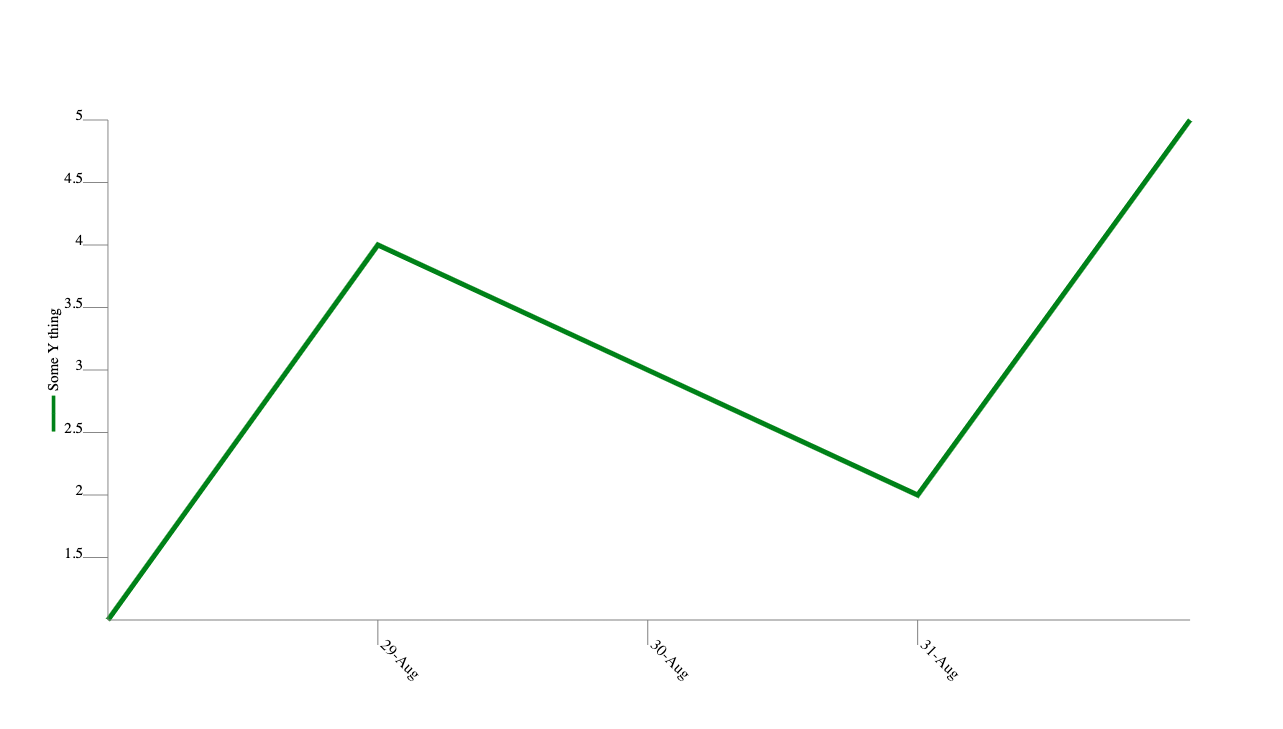
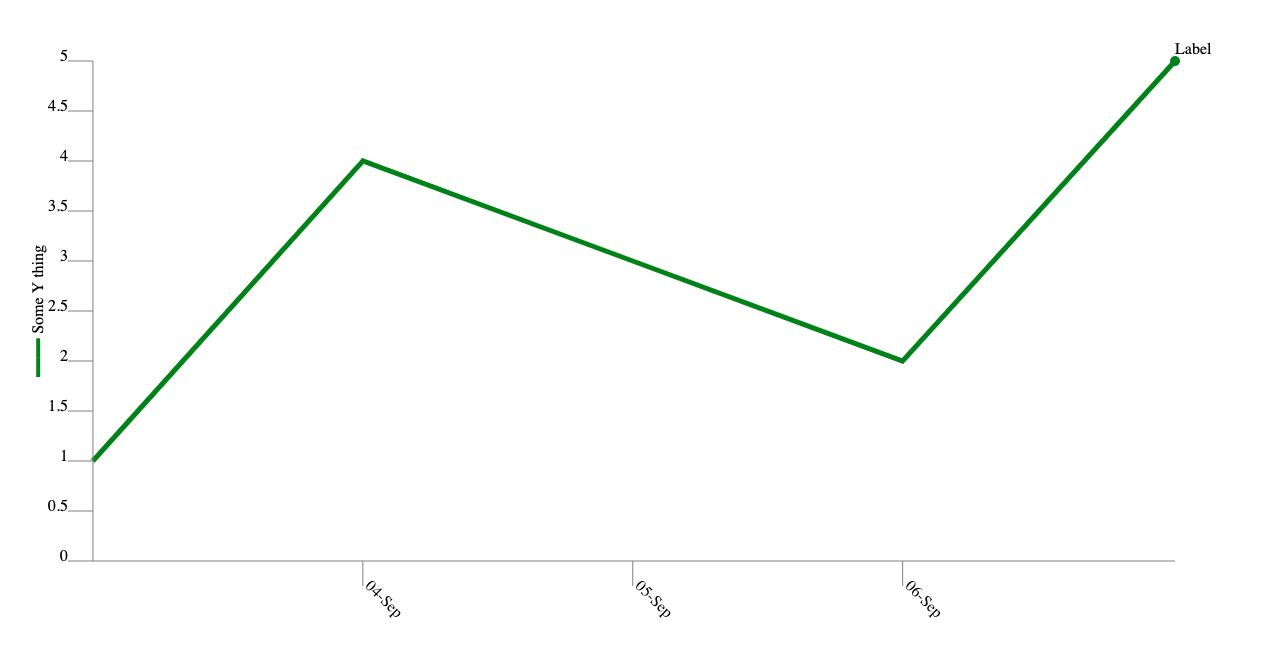
Flexible labelling
Labels can now be more than just text. For convenience, a label function is provided that generates a circle along with text that is passed into it. This reproduces the existing functionality. Going forward though, the user can provide a function to generate any Html for a data point.

diff --git a/examples/basic/index.scss b/examples/basic/index.scss
@@ -34,5 +34,10 @@
     .horizontal-series.some-series {
         stroke: green;
         stroke-width: 2px;
+
+        text {
+            stroke: none;
+            stroke-width: 1px;
+        }
     }
 }

diff --git a/src/horizontal_series.rs b/src/horizontal_series.rs
@@ -15,7 +15,25 @@ use yew::{
     web_sys::{Element, SvgElement},
 };
 
+pub type SeriesData = Vec<(f32, f32)>;
+pub type SeriesDataLabelled = Vec<(f32, f32, Box<SeriesDataLabeller>)>;
+pub type SeriesDataLabeller = dyn Fn(u32, u32) -> Html;
+
 const DATA_LABEL_OFFSET: u32 = 3;
+const CIRCLE_RADIUS: u32 = DATA_LABEL_OFFSET >> 1;
+
+// A convenience for using a string as a label along with a circle dot.
+pub fn label(text: &str) -> Box<SeriesDataLabeller> {
+    let t = text.to_string();
+    Box::new(move |x, y| {
+        html! {
+            <>
+            <circle cx=x.to_string() cy=y.to_string() r=CIRCLE_RADIUS.to_string() />
+            <text x=x.to_string() y=(y - DATA_LABEL_OFFSET).to_string()>{t.to_owned()}</text>
+            </>
+        }
+    })
+}
 
 pub enum Msg {
     Resize,
@@ -29,17 +47,17 @@ pub enum SeriesType {
 
 #[derive(Properties, Clone)]
 pub struct Props {
-    pub series_type: SeriesType,
-    pub name: String,
-    pub data: Rc<Vec<(f32, f32)>>,
-    pub data_labels: Option<Rc<Vec<(f32, f32, String)>>>,
+    pub data: Rc<SeriesData>,
+    pub data_labels: Option<Rc<SeriesDataLabelled>>,
+    pub height: u32,
     pub horizontal_scale: Range<f32>,
     pub horizontal_scale_step: f32,
+    pub name: String,
+    pub series_type: SeriesType,
     pub vertical_scale: Range<f32>,
+    pub width: u32,
     pub x: u32,
     pub y: u32,
-    pub height: u32,
-    pub width: u32,
 }
 
 impl PartialEq for Props {
@@ -85,74 +103,77 @@ impl HorizontalSeries {
         let mut svg_elements = Vec::<Html>::with_capacity(
             props.data.len() + props.data_labels.as_ref().map(|d| d.len()).unwrap_or(0),
         );
-        let mut element_points = Vec::<(u32, u32)>::with_capacity(props.data.len());
 
-        let mut top_y = props.height;
+        if props.data.len() > 0 {
+            let mut element_points = Vec::<(u32, u32)>::with_capacity(props.data.len());
 
-        let data_step = props.horizontal_scale_step;
-        let mut last_data_step = -data_step;
-        for (data_x, data_y) in props.data.iter() {
-            let step = (data_x / data_step) * data_step;
-            if step - last_data_step > data_step {
-                if props.series_type == SeriesType::Line {
-                    let points = element_points
-                        .iter()
-                        .map(|(x, y)| format!("{},{} ", x, y))
-                        .collect::<String>();
-                    svg_elements.push(
-                        html!(<polyline points={points} class={classes.to_owned()} fill="none"/>),
-                    );
-                } else {
-                    for point in element_points.iter() {
-                        let x1 = point.0;
-                        let y1 = point.1;
-                        let x2 = x1;
-                        let y2 = props.height + props.y;
-                        if y1 != y2 {
-                            svg_elements.push(
-                            html!(<line x1=x1.to_string() y1=y1.to_string() x2=x2.to_string() y2=y2.to_string() class=classes.to_owned()/>));
+            let mut top_y = props.height;
+
+            let data_step = props.horizontal_scale_step;
+            let mut last_data_step = -data_step;
+            for (data_x, data_y) in props.data.iter() {
+                let step = (data_x / data_step) * data_step;
+                if step - last_data_step > data_step {
+                    if props.series_type == SeriesType::Line {
+                        let points = element_points
+                            .iter()
+                            .map(|(x, y)| format!("{},{} ", x, y))
+                            .collect::<String>();
+                        svg_elements.push(
+                            html!(<polyline points={points} class={classes.to_owned()} fill="none"/>),
+                        );
+                    } else {
+                        for point in element_points.iter() {
+                            let x1 = point.0;
+                            let y1 = point.1;
+                            let x2 = x1;
+                            let y2 = props.height + props.y;
+                            if y1 != y2 {
+                                svg_elements.push(
+                                html!(<line x1=x1.to_string() y1=y1.to_string() x2=x2.to_string() y2=y2.to_string() class=classes.to_owned()/>));
+                            }
                         }
                     }
+                    element_points.clear();
                 }
-                element_points.clear();
-            }
-            let x = cmp::min(
-                ((*data_x - props.horizontal_scale.start) * x_scale) as u32,
-                props.width,
-            ) + props.x;
-            let y = (props.height
-                - cmp::min(
-                    ((*data_y - props.vertical_scale.start) * y_scale) as u32,
-                    props.height,
-                ))
-                + props.y;
-            top_y = cmp::min(top_y, y);
-            element_points.push((x, y));
+                let x = cmp::min(
+                    ((*data_x - props.horizontal_scale.start) * x_scale) as u32,
+                    props.width,
+                ) + props.x;
+                let y = (props.height
+                    - cmp::min(
+                        ((*data_y - props.vertical_scale.start) * y_scale) as u32,
+                        props.height,
+                    ))
+                    + props.y;
+                top_y = cmp::min(top_y, y);
+                element_points.push((x, y));
 
-            last_data_step = step;
-        }
-        if props.series_type == SeriesType::Line {
-            let points = element_points
-                .iter()
-                .map(|(x, y)| format!("{},{} ", x, y))
-                .collect::<String>();
-            svg_elements
-                .push(html!(<polyline points={points} class={classes.to_owned()} fill="none"/>));
-        } else {
-            for point in element_points.iter() {
-                let x1 = point.0;
-                let y1 = point.1;
-                let x2 = x1;
-                let y2 = props.height + props.y;
-                if y1 != y2 {
-                    svg_elements.push(
-                    html!(<line x1=x1.to_string() y1=y1.to_string() x2=x2.to_string() y2=y2.to_string() class=classes.to_owned()/>));
+                last_data_step = step;
+            }
+            if props.series_type == SeriesType::Line {
+                let points = element_points
+                    .iter()
+                    .map(|(x, y)| format!("{},{} ", x, y))
+                    .collect::<String>();
+                svg_elements.push(
+                    html!(<polyline points={points} class={classes.to_owned()} fill="none"/>),
+                );
+            } else {
+                for point in element_points.iter() {
+                    let x1 = point.0;
+                    let y1 = point.1;
+                    let x2 = x1;
+                    let y2 = props.height + props.y;
+                    if y1 != y2 {
+                        svg_elements.push(
+                        html!(<line x1=x1.to_string() y1=y1.to_string() x2=x2.to_string() y2=y2.to_string() class=classes.to_owned()/>));
+                    }
                 }
             }
         }
 
         if let Some(data_labels) = props.data_labels.as_ref() {
-            let circle_radius = DATA_LABEL_OFFSET >> 1;
             for (data_x, data_y, label) in data_labels.iter() {
                 let x = cmp::min(
                     ((*data_x - props.horizontal_scale.start) * x_scale) as u32,
@@ -160,13 +181,11 @@ impl HorizontalSeries {
                 ) + props.x;
                 let y = props.height - ((*data_y - props.vertical_scale.start) * y_scale) as u32
                     + props.y;
-                svg_elements.push(
-                    html! {
-                        <>
-                        <circle cx=x.to_string() cy=y.to_string() r=circle_radius.to_string() />
-                        <text x=x.to_string() y=(y  - DATA_LABEL_OFFSET).to_string() class=classes.to_owned()>{label}</text>
-                        </>
-                    })
+                svg_elements.push(html! {
+                    <g class=classes.to_owned()>
+                        {label(x, y)}
+                    </g>
+                })
             }
         }
 

diff --git a/examples/basic/src/main.rs b/examples/basic/src/main.rs
@@ -7,7 +7,7 @@ use std::{
 use chrono::{DateTime, Duration, Utc};
 use yew::prelude::*;
 use yew_chart::{
-    horizontal_series::{self, HorizontalSeries},
+    horizontal_series::{self, HorizontalSeries, SeriesData, SeriesDataLabelled},
     horizontal_time_axis::HorizontalTimeAxis,
     vertical_axis::{self, VerticalAxis},
 };
@@ -18,7 +18,8 @@ const MARGIN: u32 = 50;
 const TICK_LENGTH: u32 = 10;
 
 struct App {
-    data_set: Rc<Vec<(f32, f32)>>,
+    data_set: Rc<SeriesData>,
+    data_set_labels: Rc<SeriesDataLabelled>,
     time: Range<DateTime<Utc>>,
 }
 
@@ -38,6 +39,11 @@ impl Component for App {
                 (start_date.add(Duration::days(3)).timestamp() as f32, 2.0),
                 (start_date.add(Duration::days(4)).timestamp() as f32, 5.0),
             ]),
+            data_set_labels: Rc::new(vec![(
+                start_date.add(Duration::days(4)).timestamp() as f32,
+                5.0,
+                horizontal_series::label("Label"),
+            )]),
             time: start_date..end_date,
         }
     }
@@ -57,6 +63,7 @@ impl Component for App {
                     series_type=horizontal_series::SeriesType::Line
                     name="some-series"
                     data=Rc::clone(&self.data_set)
+                    data_labels=Some(Rc::clone(&self.data_set_labels))
                     horizontal_scale=self.time.start.timestamp() as f32..self.time.end.timestamp() as f32
                     horizontal_scale_step=Duration::days(1).num_seconds() as f32
                     vertical_scale=0.0..5.0

diff --git a/README.md b/README.md
@@ -22,12 +22,14 @@ Here is a very basic chart produced by the examples/basic project:
 fn view(&self) -> yew::Html {
     html! {
         <svg class="chart" viewBox=format!("0 0 {} {}", WIDTH, HEIGHT) preserveAspectRatio="none">
-            <HorizontalTimeSeries
-                series_type=horizontal_time_series::SeriesType::Line
+            <HorizontalSeries
+                series_type=horizontal_series::SeriesType::Line
                 name="some-series"
                 data=Rc::clone(&self.data_set)
-                time=self.time.to_owned() time_step=Duration::days(1)
-                scale=0.0..5.0
+                data_labels=Some(Rc::clone(&self.data_set_labels))
+                horizontal_scale=self.time.start.timestamp() as f32..self.time.end.timestamp() as f32
+                horizontal_scale_step=Duration::days(1).num_seconds() as f32
+                vertical_scale=0.0..5.0
                 x=MARGIN y=MARGIN width={WIDTH - (MARGIN * 2)} height={HEIGHT - (MARGIN * 2)} />
 
             <VerticalAxis
